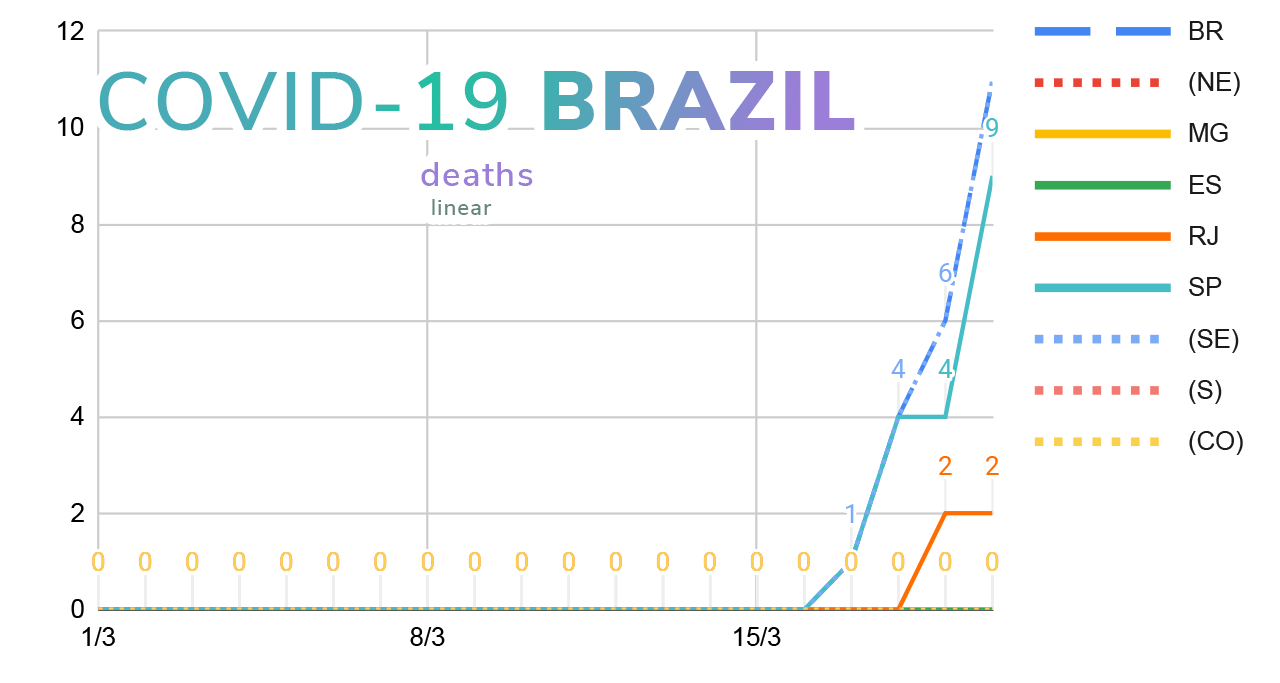
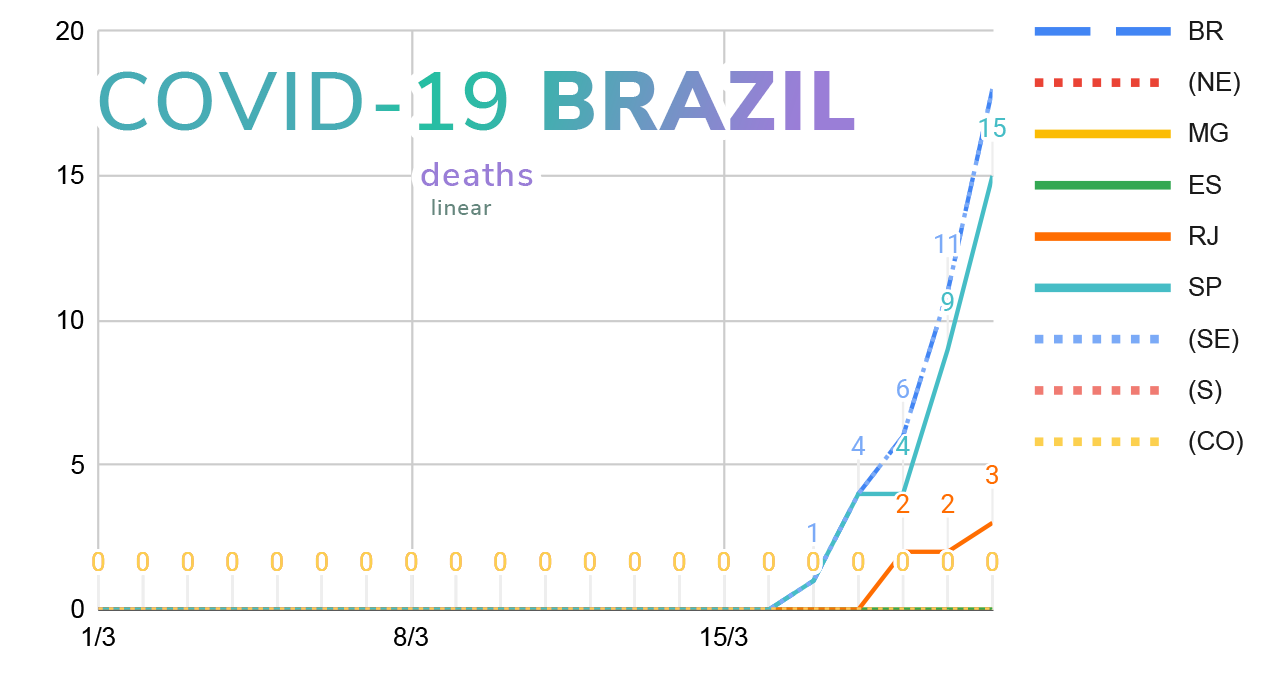
chore: Update data and charts

diff --git a/README.md b/README.md
@@ -1,6 +1,6 @@
 # COVID-19 Brazil - time series data
 
-<kbd>Latest: 20/03/2020 (Brasilia Standard Time)</kbd>
+<kbd>Latest: 21/03/2020</kbd> source: [Ministério da Saúde](http://plataforma.saude.gov.br/novocoronavirus/)
 
 ### Confirmed Cases (linear)
 ![Confirmed Linear Chart](/docs/confirmed-linear.png)
@@ -16,7 +16,6 @@
 
 ##### * log charts on docs folder / gráficos em log na pasta docs 
 
-source/fonte: [Ministério da Saúde](http://plataforma.saude.gov.br/novocoronavirus/)
 
 [repo data on google sheets](https://docs.google.com/spreadsheets/d/1L1CnyeKA8ZJprzFCa3ZiRIzcP44mahmcG4M_hnlbMFQ/edit?usp=sharing)
 
